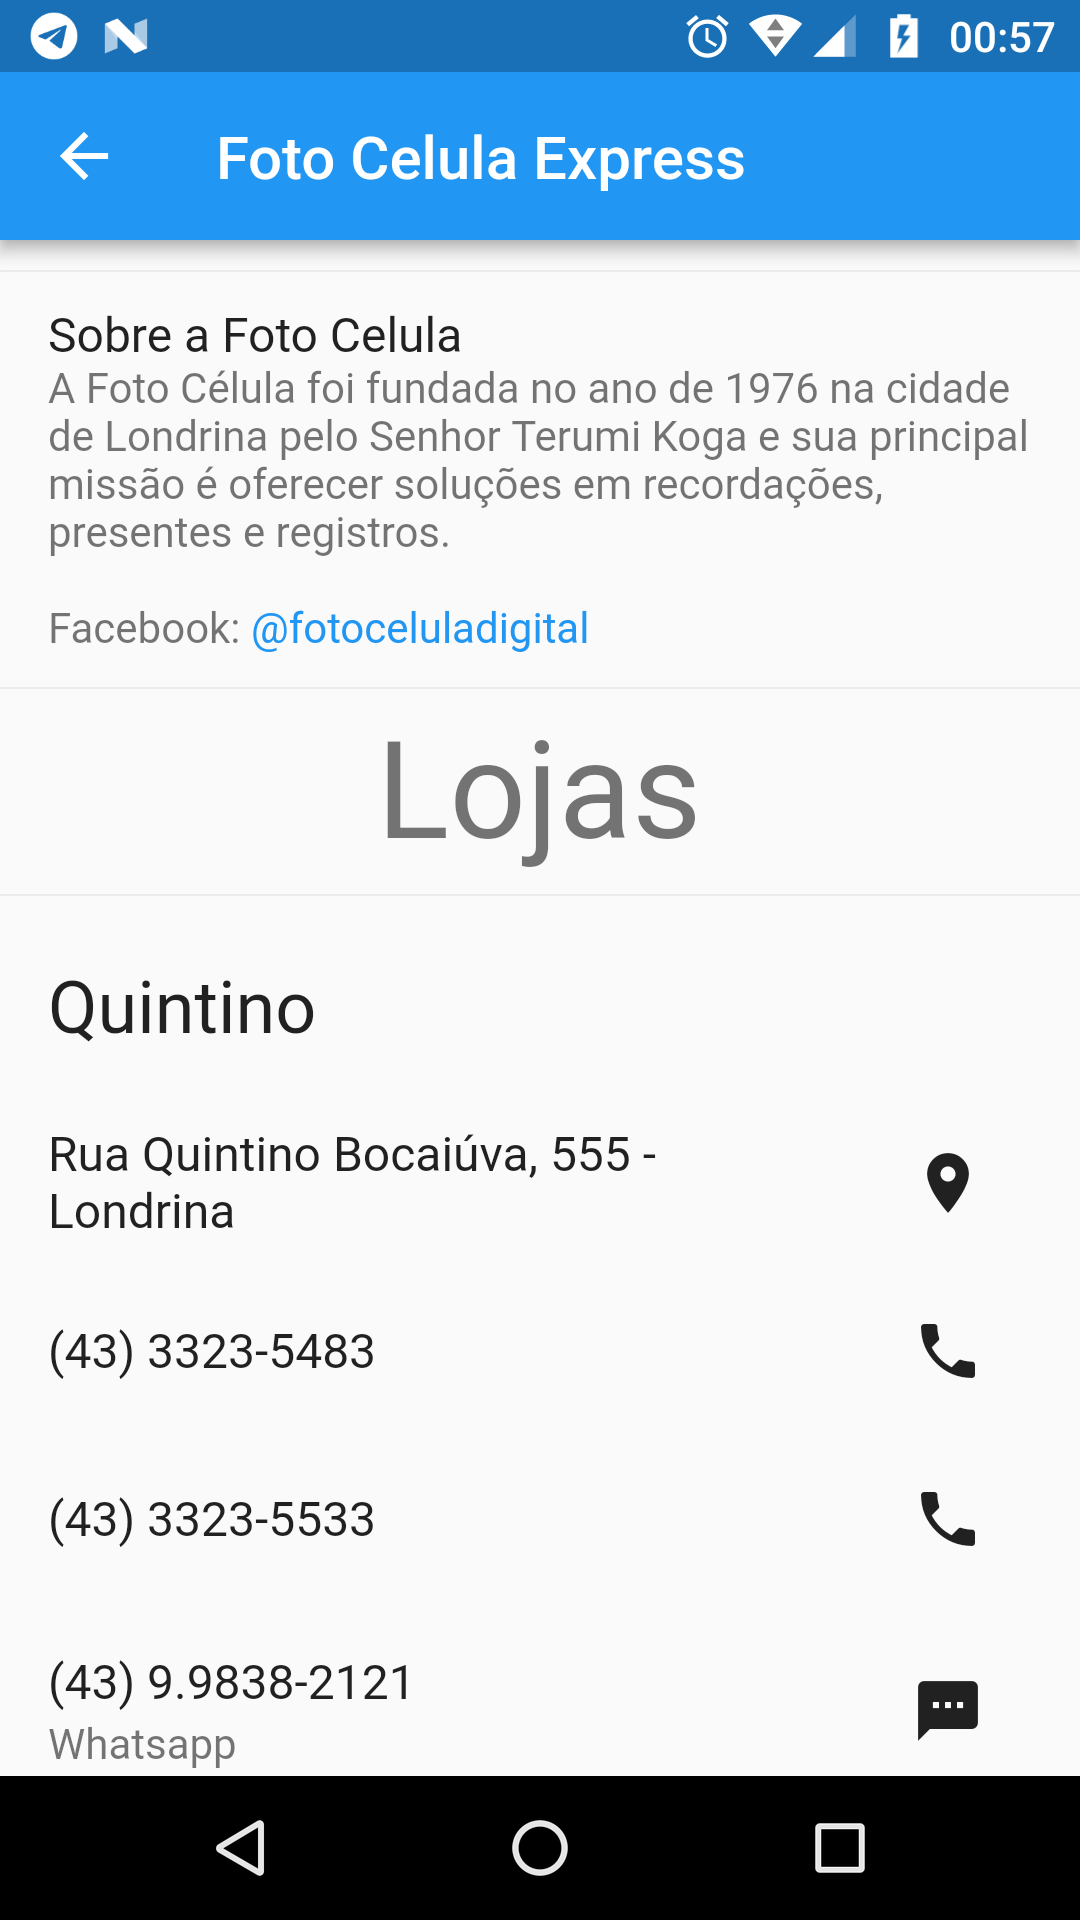
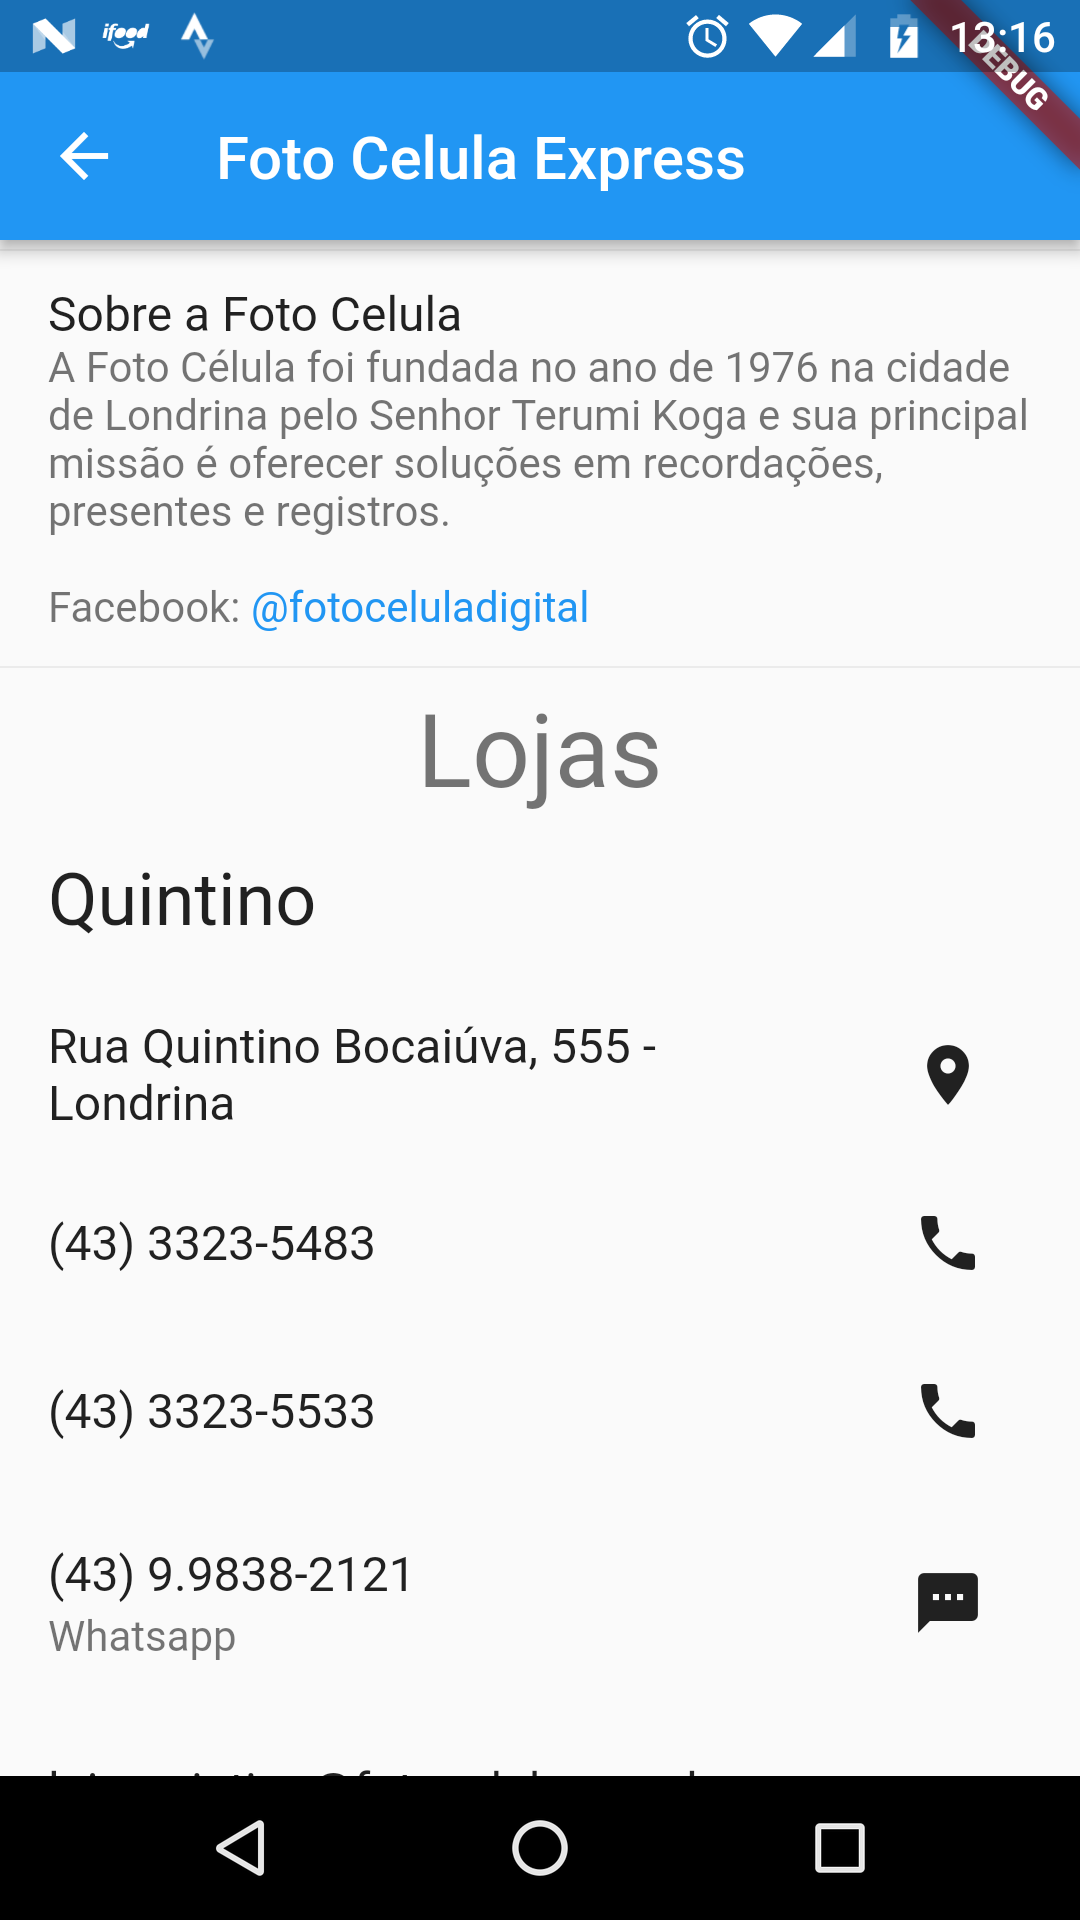
Changing info font sytle.

diff --git a/lib/info.dart b/lib/info.dart
@@ -60,8 +60,7 @@ class Info extends StatelessWidget {
         )
       ),
       Divider(),
-      Center(child: Text('Lojas', style: Theme.of(context).textTheme.display2,),),
-      Divider()
+      Center(child: Text('Lojas', style: Theme.of(context).textTheme.display1,),),
     ];
     for (LojaInfo loja in Env.lojaStr.values) {
       list.addAll([

diff --git a/README.md b/README.md
@@ -34,6 +34,5 @@ Thanks to [@romannurik](https://romannurik.github.io/AndroidAssetStudio/icons-la
 
 # To do
 - feedbacks mais diretos
-- fontes menores no titulo LOJAS (Sobre)
 - Mecanismo para fazer outro pedido
 - Se der implementar multipla seleção
